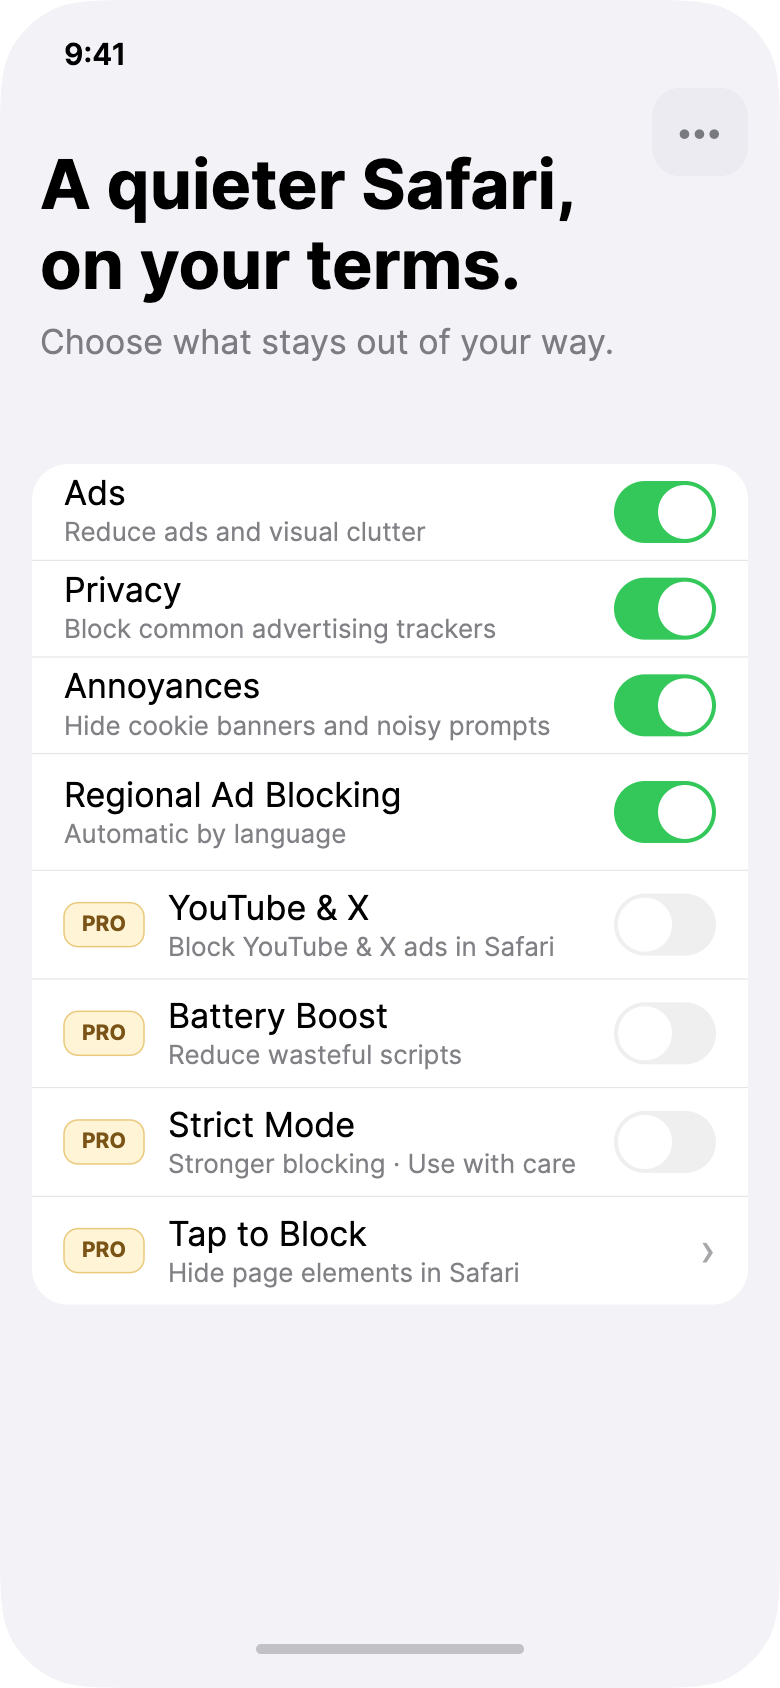
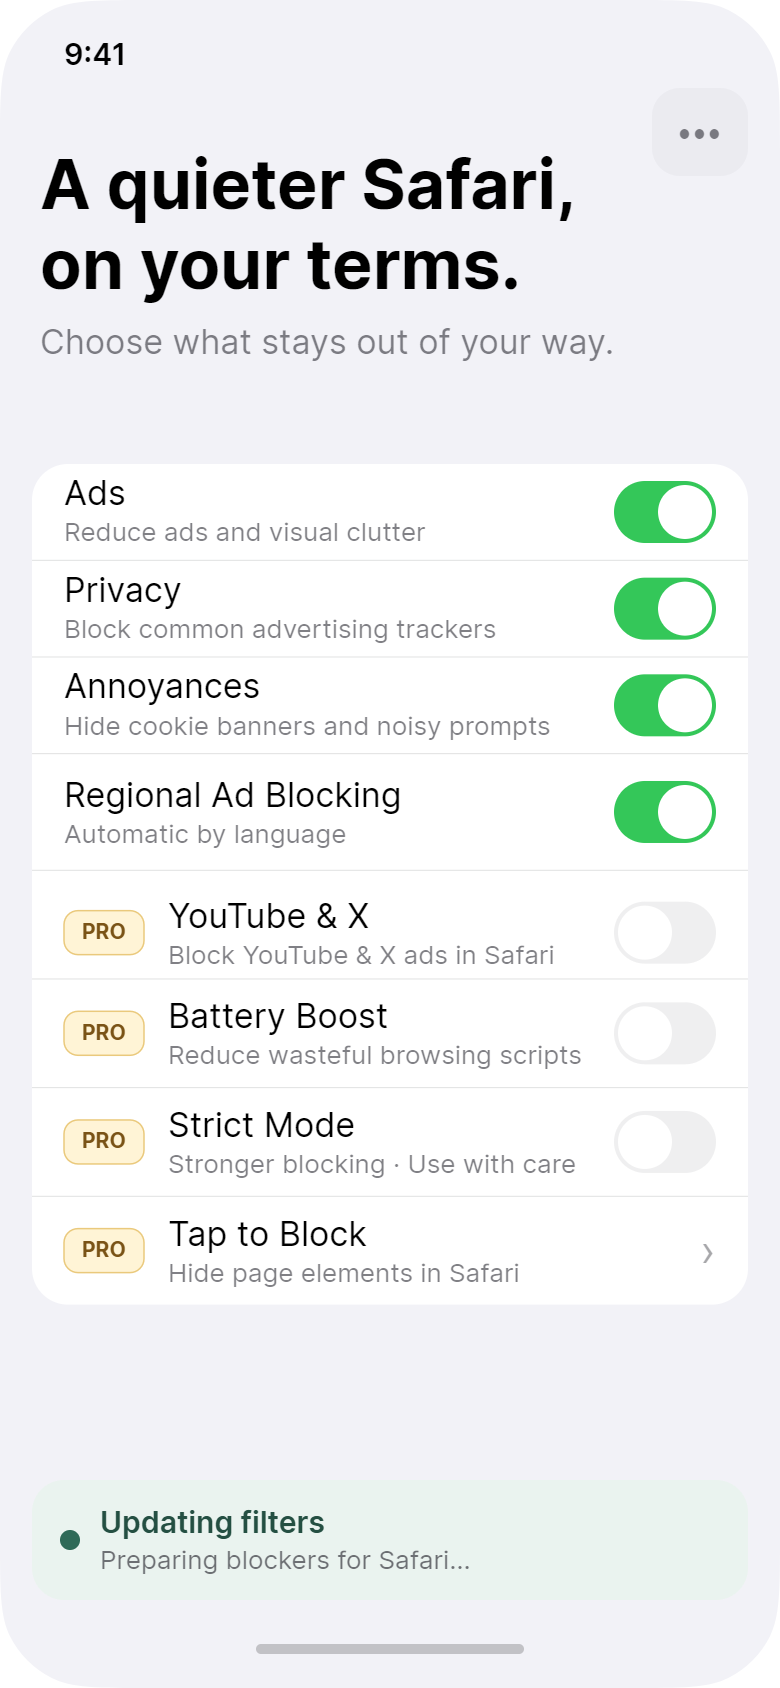
Update website for D-317 and residual issue 007 trust copy.
Drop Strict Mode and Tap to Block from marketing Pro copy, Support, Privacy, and ASC mirrors. Crop Home and Upgrade site screenshots to six capabilities / two Pro benefits. Keep Content Blockers + Web Extension setup language on the homepage.

diff --git a/Gleem/website/privacy/index.html b/Gleem/website/privacy/index.html
@@ -57,7 +57,7 @@
       No Stillwall account.
       We don’t collect or upload your browsing history.
       Safari content blocking uses rule lists managed by Safari—it does not give us a feed of the pages you visit.
-      Optional extension features (such as site pause and Tap to Block) work on your device.
+      Optional extension features (such as site pause) work on your device.
       Filter updates may download over the network. Subscriptions are handled by Apple.
       We don’t use third-party analytics, advertising, or crash SDKs in the app.
     </div>
@@ -119,7 +119,7 @@
     <ul>
       <li><strong>No product account.</strong> You don’t create a Stillwall login.</li>
       <li><strong>No browsing-history product.</strong> We do not build a list of websites you visit for analytics, advertising, or profiling.</li>
-      <li><strong>On-device first.</strong> Protection settings, site pause, and Tap to Block rules stay on your device unless you choose to send us something (for example support email).</li>
+      <li><strong>On-device first.</strong> Protection settings and site pause decisions stay on your device unless you choose to send us something (for example support email).</li>
       <li><strong>Transparent third parties.</strong> Apple handles subscriptions and app distribution. Hosting providers may process technical logs when you visit our website.</li>
     </ul>
 
@@ -146,10 +146,9 @@
       (including, where applicable, an App Group shared with the Safari extensions), for example:
     </p>
     <ul>
-      <li>Category toggles (Ads, Privacy, Annoyances, Regional rules, Pro tools)</li>
+      <li>Category toggles (Ads, Privacy, Annoyances, Regional rules, and Pro tools such as YouTube &amp; X and Battery Boost)</li>
       <li>Pro entitlement state as reported by Apple’s StoreKit</li>
       <li>Site pause / resume decisions made in the Safari extension</li>
-      <li>Tap to Block rules you create (on-device; not cloud-synced in the current version)</li>
     </ul>
     <p>
       We do not use this on-device data to build a cross-site advertising profile.
@@ -171,7 +170,7 @@
       </li>
       <li>
         <strong>Web Extension.</strong>
-        Optional features—such as pause/resume on the current site, Tap to Block, Report issue,
+        Optional features—such as pause/resume on the current site, Report issue,
         and certain Pro tools (for example enhanced blocking for YouTube and X <em>in Safari</em>)—
         run as a Safari Web Extension.
         Those features may process information about the <strong>current site or page in Safari</strong>
@@ -330,7 +329,7 @@
     <h2 id="choices">11. Your choices and rights</h2>
     <h3>11.1 In the product</h3>
     <ul>
-      <li>Turn off category switches in the app (for example Ads or Strict Mode)</li>
+      <li>Turn off category switches in the app (for example Ads or Annoyances)</li>
       <li>Pause a site in the Safari extension</li>
       <li>Cancel Stillwall Pro in Apple ID Subscriptions</li>
       <li>Delete the app to remove on-device Stillwall data (subject to your backups)</li>

diff --git a/Gleem/website/support/index.html b/Gleem/website/support/index.html
@@ -100,14 +100,14 @@
 
     <h2 id="broken-site">A site looks broken</h2>
     <ul>
-      <li>Turn off the relevant <strong>category switches</strong> in Stillwall (for example Ads or Strict Mode), or</li>
+      <li>Turn off the relevant <strong>category switches</strong> in Stillwall (for example Ads or Annoyances), or</li>
       <li>
         Open the <strong>Stillwall Safari extension</strong> on that site and choose
         <strong>Pause on this site</strong>, then <strong>Resume</strong> when finished.
       </li>
     </ul>
     <p>
-      Strict Mode (Pro) is more aggressive and can break some sites—try turning it off first.
+      The Safari extension is the place for a temporary pass on one site—not a global protection badge in Home.
     </p>
 
     <h2 id="report">Report an issue</h2>
@@ -124,11 +124,10 @@
       not the native YouTube or X apps.
     </p>
 
-    <h2 id="tap-to-block">Tap to Block</h2>
+    <h2 id="battery-boost">Battery Boost</h2>
     <p>
-      Available with <strong>Stillwall Pro</strong>. In Safari, open the Stillwall extension →
-      <strong>Tap to Block</strong>, then select elements on the page.
-      Rules stay on your device and are not cloud-synced in the current version.
+      Available with <strong>Stillwall Pro</strong>. Reduces crypto miners and other wasteful
+      browsing scripts so pages waste less power in Safari.
     </p>
 
     <h2 id="subscriptions">Subscriptions</h2>

diff --git a/Gleem/website/index.html b/Gleem/website/index.html
@@ -713,24 +713,14 @@
         </div>
         <div class="index">
           <div class="index-row" data-reveal>
-            <span class="no">08<sup> /11</sup></span>
+            <span class="no">08<sup> /09</sup></span>
             <h3>YouTube &amp; X ad block</h3>
             <p>Video ads and promoted posts, blocked. <span class="caveat">In Safari only—not the native apps.</span></p>
           </div>
           <div class="index-row" data-reveal>
-            <span class="no">09<sup> /11</sup></span>
+            <span class="no">09<sup> /09</sup></span>
             <h3>Battery Boost</h3>
             <p>Crypto miners and wasteful background scripts stopped before they drain your battery.</p>
-          </div>
-          <div class="index-row" data-reveal>
-            <span class="no">10<sup> /11</sup></span>
-            <h3>Strict Mode</h3>
-            <p>A more aggressive ruleset layered on top of what you already run. Off by default; yours to enable.</p>
-          </div>
-          <div class="index-row" data-reveal>
-            <span class="no">11<sup> /11</sup></span>
-            <h3>Tap to Block</h3>
-            <p>Point at any element on a page and hide it, from the Safari extension. Your rules stay on your device.</p>
           </div>
         </div>
         <div class="pro-terms" data-reveal>

diff --git a/Gleem/issues/011-remove-strict-and-tap-d317/README.md b/Gleem/issues/011-remove-strict-and-tap-d317/README.md
@@ -5,7 +5,7 @@
 | 状态 | **open** |
 | 优先级 | **P0**（范围变更；与旧实现/旧稿冲突时必须改） |
 | 类型 | product-scope / ui / copy |
-| 影响范围 | 主 App Home / Upgrade / Welcome · Help · 扩展 popup · 商店卖点 |
+| 影响范围 | 主 App Home / Upgrade / Welcome · Help · 扩展 popup · 商店卖点 · **营销站 / Support / Privacy** |
 | 相关文档 | 总纲领 D-317；`product-charter` §2.2 / §4.2 / §5.7 / §7.3 / §9 / §14 |
 | 创建日期 | 2026-07-31 |
 | 来源 | 产品确认 v1 砍掉 Strict + Tap（路径 B） |
@@ -51,7 +51,8 @@
 1. 删除/隐藏任何 Strict、Tap 的 model 字段、开关 UI、导航。  
 2. 扩展菜单改 2 项；同步 App Group 若曾为 Tap 预留可保留字段但不暴露 UI。  
 3. 与 **005** 文案表、**006** 次级/扩展、**009** Help 一并验收。  
-4. 商店/截图若仍写 Tap 或 Strict → 见 **010** / 描述文案（文档侧已改 description）。
+4. 商店/截图若仍写 Tap 或 Strict → 见 **010** / 描述文案（文档侧已改 description）。  
+5. **网站（对外）：** 营销首页 Pro 目录、`website/support`、`website/privacy` 与 ASC 镜像文案不得再卖 Strict / Tap；Home 成片截图仅 6 行。
 
 ## 验收标准
 
@@ -60,6 +61,7 @@
 - [ ] 扩展 popup 仅 Pause + Report  
 - [ ] 工程字符串搜索无用户可见 `Strict Mode` / `Tap to Block`（About/历史注释除外）  
 - [ ] Help 无 Tap 路径；恢复路径 = 关类别或 Pause  
+- [x] **网站（2026-07-31）：** `website/index.html` Pro 仅 YT&X + Battery；Support/Privacy/support-en-US 去掉 Strict·Tap；站内 `03-Home` / `05-Upgrade` 截图已裁掉两行（`01-Welcome` 列表仍可能在 CTA 下透出旧行，lab 用，正式首页未引用）  
 
 ## 附件
 

diff --git a/Gleem/docs/release/app-store-assets/copy/privacy-policy-en-US.md b/Gleem/docs/release/app-store-assets/copy/privacy-policy-en-US.md
@@ -64,15 +64,14 @@ Stillwall blocks ads, trackers, and annoyances in **Safari only**. It is **not a
 
 Preferences and feature data on your device (and App Group shared with Safari extensions where applicable), for example:
 
-- Category toggles (Ads, Privacy, Annoyances, Regional, Pro features)  
+- Category toggles (Ads, Privacy, Annoyances, Regional, and Pro tools such as YouTube & X and Battery Boost)  
 - Pro entitlement state as reported by StoreKit  
 - Site pause / resume decisions in the Safari extension  
-- Tap to Block rules (on-device; not cloud-synced in the current version)  
 
 ### 4.3 How Safari blocking works
 
 - **Content Blockers:** Stillwall provides content-blocking rule lists to Safari (multiple Stillwall Content Blockers plus related configuration). Safari applies those rules. This model does **not** give Stillwall access to the contents of web pages you visit or a feed of every URL you open while content blocking is installed.  
-- **Web Extension:** Optional features (pause/resume on the current site, Tap to Block, Report issue, certain Pro tools such as enhanced blocking for YouTube and X *in Safari*) may process information about the **current site or page in Safari** on your device. That processing is local. We do **not** upload your browsing history.  
+- **Web Extension:** Optional features (pause/resume on the current site, Report issue, certain Pro tools such as enhanced blocking for YouTube and X *in Safari*) may process information about the **current site or page in Safari** on your device. That processing is local. We do **not** upload your browsing history.  
 
 ### 4.4 Network requests
 

diff --git a/Gleem/issues/007-support-trust-copy-d316/README.md b/Gleem/issues/007-support-trust-copy-d316/README.md
@@ -80,7 +80,9 @@
 
 已更新：`docs/release/app-store-assets/copy/support-en-US.md`、`website/support/index.html`、`docs/release/app-store-assets/site/support.html`。
 
-**补充（同日）：** 营销首页 `website/index.html` 仍残留 *two Safari extensions* / *on by default · nothing to configure*，已按同一口径改为 **6 Content Blockers + Web Extension + website access**，并去掉 Home 全局 On/Off badge 叙事；`website/privacy` 与 privacy-policy 源文同步 Content Blockers 复数。`versions/*` 历史稿未改。  
+**补充（同日）：** 营销首页 `website/index.html` 仍残留 *two Safari extensions* / *on by default · nothing to configure*，已按同一口径改为 **6 Content Blockers + Web Extension + website access**，并去掉 Home 全局 On/Off badge 叙事；`website/privacy` 与 privacy-policy 源文同步 Content Blockers 复数。`versions/*` 历史稿未改。
+
+**再补（同日 · D-317 / issue 011）：** Support / Privacy / 营销 Pro 目录与截图去掉 **Strict Mode · Tap to Block**（v1 不做）。  
 
 ## 附件
 
